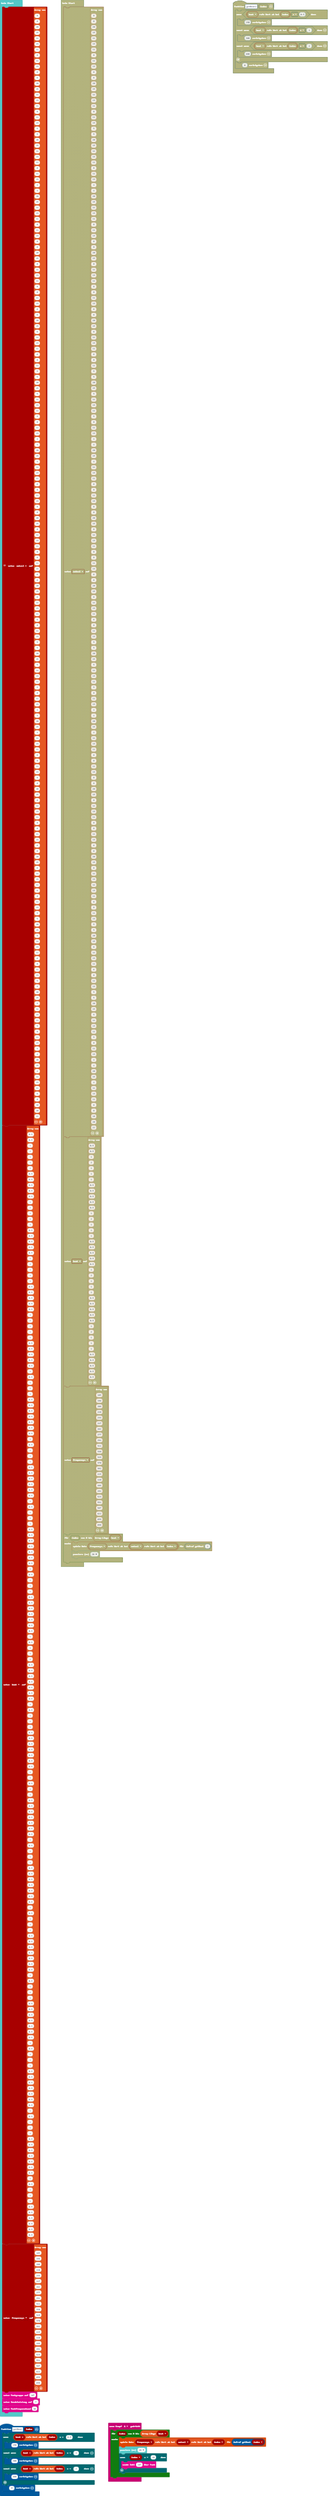
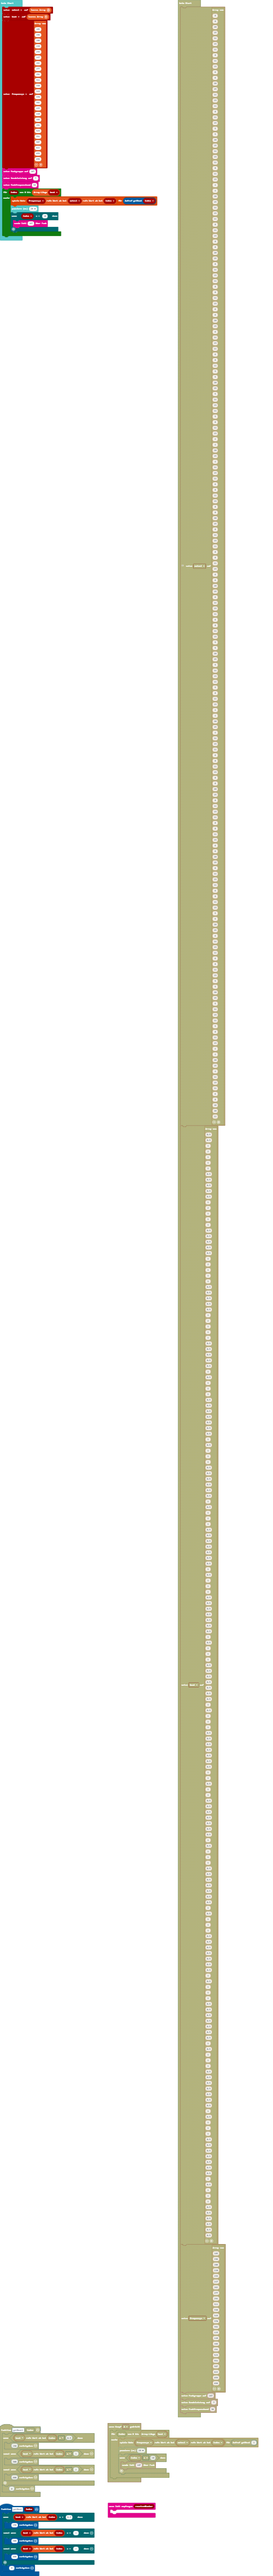
ported note player

diff --git a/main.ts b/main.ts
@@ -1,10 +1,28 @@
+radio.onReceivedNumber(function (receivedNumber) {
+	for (let index = 0; index <= beat.length; index++) {
+        music.playTone(frequencys[notes1[index]], getBeat(index))
+        basic.pause(20)
+        if (index == 40) {
+            radio.sendNumber(187)
+        }
+    }
+})
 
-let frequencys: number[] = []
+function getBeat (index: number) {
+    if (beat[index] == 0.5) {
+        return 150
+    } else if (beat[index] == 1) {
+        return 300
+    } else if (beat[index] == 2) {
+        return 600
+    }
+    return 0
+}
 let beat: number[] = []
 let notes1: number[] = []
-notes1 = []
-beat = []
-frequencys = [185, 196, 208, 220, 233, 247, 262, 277, 294, 311, 330, 349, 370, 392, 415, 440, 466, 494, 523, 554, 587, 622, 659, 698]
+notes1 = [20,20,20,20]
+beat = [1,1,1,1]
+let frequencys = [185, 196, 208, 220, 233, 247, 262, 277, 294, 311, 330, 349, 370, 392, 415, 440, 466, 494, 523, 554, 587, 622, 659, 698]
 radio.setGroup(187)
 radio.setTransmitPower(7)
 radio.setFrequencyBand(30)
